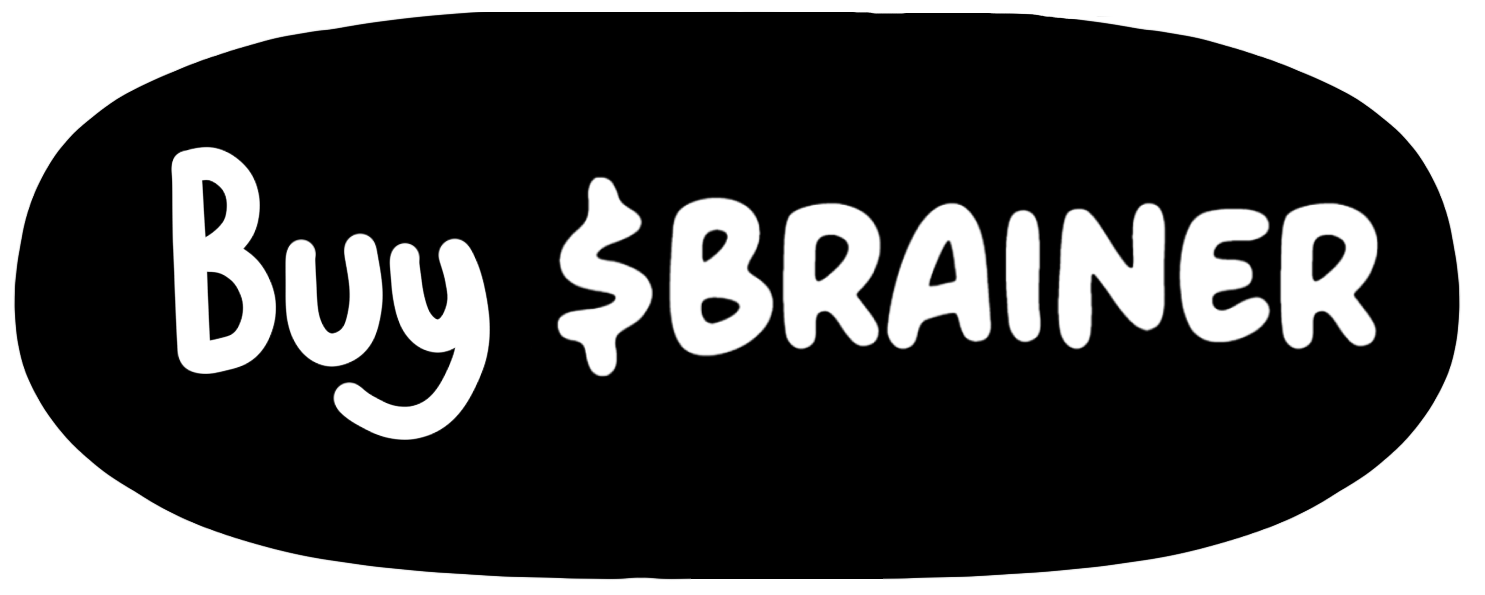
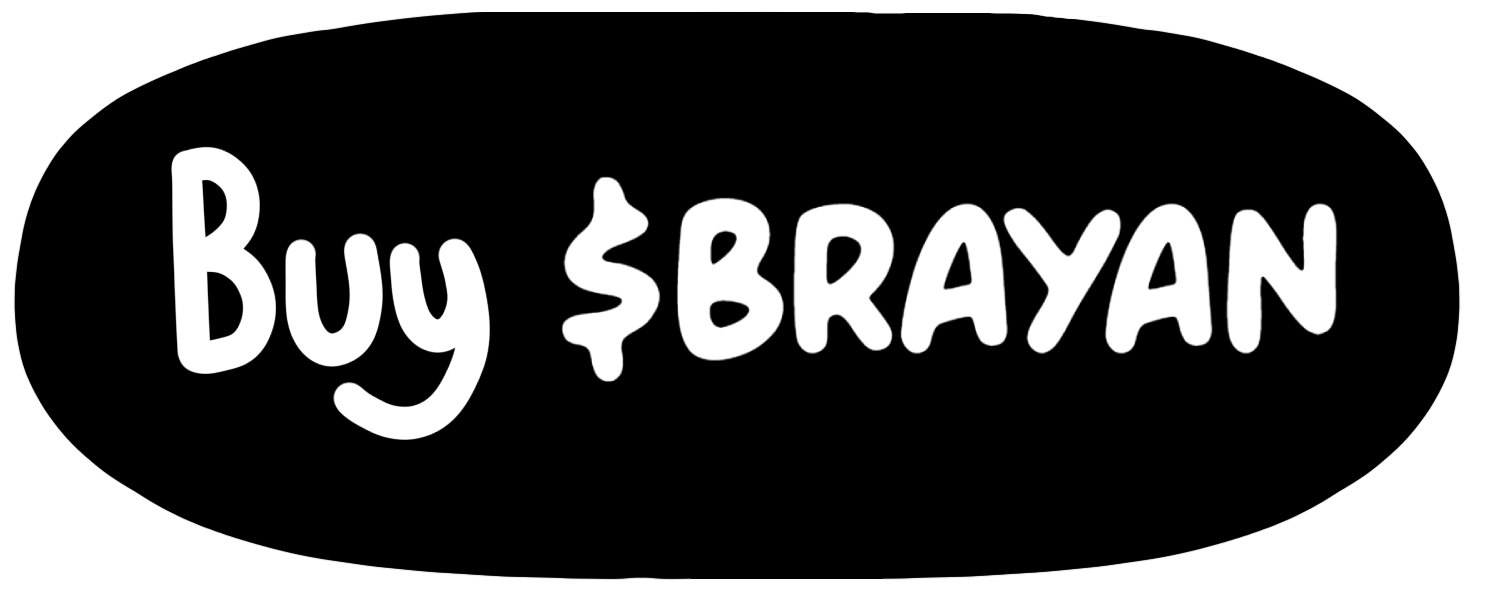
1

Changed region(s): [[0.3717, 0.3025, 0.9293, 0.6353]]

diff --git a/index.html b/index.html
@@ -9,8 +9,8 @@
 <meta http-equiv="Expires" content="0" />
     <link rel="icon" href="./assets/logo1.png" type="image/png">
     <link rel="apple-touch-icon" href="./assets/logo1.png">
-    <title>BRAINER</title>
-    <meta name="description" content="BRAINER is a cheeky, sarcastic genius representing your inner thoughts on the Solana network." />
+    <title>BRAYAN</title>
+    <meta name="description" content="BRAYAN is a cheeky, sarcastic genius representing your inner thoughts on the Solana network." />
   
     <link rel="preconnect" href="https://fonts.googleapis.com">
     <link rel="preconnect" href="https://fonts.gstatic.com" crossorigin>
@@ -25,48 +25,48 @@
       <div class="ticker-wrapper">
         <div class="ticker">
             <div class="ticker-move">
-                <span class="text">rhb2...<span style="color:#ff7bd3; font-weight: bold; text-transform: uppercase;">pump</span></span>
-                <span class="text">rhb2...<span style="color:#ff7bd3; font-weight: bold; text-transform: uppercase;">pump</span></span>
-                <span class="text">rhb2...<span style="color:#ff7bd3; font-weight: bold; text-transform: uppercase;">pump</span></span>
-                <span class="text">rhb2...<span style="color:#ff7bd3; font-weight: bold; text-transform: uppercase;">pump</span></span>
-                <span class="text">rhb2...<span style="color:#ff7bd3; font-weight: bold; text-transform: uppercase;">pump</span></span>
-                <span class="text">rhb2...<span style="color:#ff7bd3; font-weight: bold; text-transform: uppercase;">pump</span></span>
-                <span class="text">rhb2...<span style="color:#ff7bd3; font-weight: bold; text-transform: uppercase;">pump</span></span>
-                <span class="text">rhb2...<span style="color:#ff7bd3; font-weight: bold; text-transform: uppercase;">pump</span></span>
-                <span class="text">rhb2...<span style="color:#ff7bd3; font-weight: bold; text-transform: uppercase;">pump</span></span>
-                <span class="text">rhb2...<span style="color:#ff7bd3; font-weight: bold; text-transform: uppercase;">pump</span></span>
-                <span class="text">rhb2...<span style="color:#ff7bd3; font-weight: bold; text-transform: uppercase;">pump</span></span>
-                <span class="text">rhb2...<span style="color:#ff7bd3; font-weight: bold; text-transform: uppercase;">pump</span></span>
-                <span class="text">rhb2...<span style="color:#ff7bd3; font-weight: bold; text-transform: uppercase;">pump</span></span>
-                <span class="text">rhb2...<span style="color:#ff7bd3; font-weight: bold; text-transform: uppercase;">pump</span></span>
-                <span class="text">rhb2...<span style="color:#ff7bd3; font-weight: bold; text-transform: uppercase;">pump</span></span>
-                <span class="text">rhb2...<span style="color:#ff7bd3; font-weight: bold; text-transform: uppercase;">pump</span></span>
-                <span class="text">rhb2...<span style="color:#ff7bd3; font-weight: bold; text-transform: uppercase;">pump</span></span>
-                <span class="text">rhb2...<span style="color:#ff7bd3; font-weight: bold; text-transform: uppercase;">pump</span></span>
-                <span class="text">rhb2...<span style="color:#ff7bd3; font-weight: bold; text-transform: uppercase;">pump</span></span>
-                <span class="text">rhb2...<span style="color:#ff7bd3; font-weight: bold; text-transform: uppercase;">pump</span></span>
+                <span class="text">zPdV...<span style="color:#ff7bd3; font-weight: bold; text-transform: uppercase;">pump</span></span>
+                <span class="text">zPdV...<span style="color:#ff7bd3; font-weight: bold; text-transform: uppercase;">pump</span></span>
+                <span class="text">zPdV...<span style="color:#ff7bd3; font-weight: bold; text-transform: uppercase;">pump</span></span>
+                <span class="text">zPdV...<span style="color:#ff7bd3; font-weight: bold; text-transform: uppercase;">pump</span></span>
+                <span class="text">zPdV...<span style="color:#ff7bd3; font-weight: bold; text-transform: uppercase;">pump</span></span>
+                <span class="text">zPdV...<span style="color:#ff7bd3; font-weight: bold; text-transform: uppercase;">pump</span></span>
+                <span class="text">zPdV...<span style="color:#ff7bd3; font-weight: bold; text-transform: uppercase;">pump</span></span>
+                <span class="text">zPdV...<span style="color:#ff7bd3; font-weight: bold; text-transform: uppercase;">pump</span></span>
+                <span class="text">zPdV...<span style="color:#ff7bd3; font-weight: bold; text-transform: uppercase;">pump</span></span>
+                <span class="text">zPdV...<span style="color:#ff7bd3; font-weight: bold; text-transform: uppercase;">pump</span></span>
+                <span class="text">zPdV...<span style="color:#ff7bd3; font-weight: bold; text-transform: uppercase;">pump</span></span>
+                <span class="text">zPdV...<span style="color:#ff7bd3; font-weight: bold; text-transform: uppercase;">pump</span></span>
+                <span class="text">zPdV...<span style="color:#ff7bd3; font-weight: bold; text-transform: uppercase;">pump</span></span>
+                <span class="text">zPdV...<span style="color:#ff7bd3; font-weight: bold; text-transform: uppercase;">pump</span></span>
+                <span class="text">zPdV...<span style="color:#ff7bd3; font-weight: bold; text-transform: uppercase;">pump</span></span>
+                <span class="text">zPdV...<span style="color:#ff7bd3; font-weight: bold; text-transform: uppercase;">pump</span></span>
+                <span class="text">zPdV...<span style="color:#ff7bd3; font-weight: bold; text-transform: uppercase;">pump</span></span>
+                <span class="text">zPdV...<span style="color:#ff7bd3; font-weight: bold; text-transform: uppercase;">pump</span></span>
+                <span class="text">zPdV...<span style="color:#ff7bd3; font-weight: bold; text-transform: uppercase;">pump</span></span>
+                <span class="text">zPdV...<span style="color:#ff7bd3; font-weight: bold; text-transform: uppercase;">pump</span></span>
             </div>
             <DIV class="ticker-move">
-                <span class="text">rhb2...<span style="color:#ff7bd3; font-weight: bold; text-transform: uppercase;">pump</span></span>
-                <span class="text">rhb2...<span style="color:#ff7bd3; font-weight: bold; text-transform: uppercase;">pump</span></span>
-                <span class="text">rhb2...<span style="color:#ff7bd3; font-weight: bold; text-transform: uppercase;">pump</span></span>
-                <span class="text">rhb2...<span style="color:#ff7bd3; font-weight: bold; text-transform: uppercase;">pump</span></span>
-                <span class="text">rhb2...<span style="color:#ff7bd3; font-weight: bold; text-transform: uppercase;">pump</span></span>
-                <span class="text">rhb2...<span style="color:#ff7bd3; font-weight: bold; text-transform: uppercase;">pump</span></span>
-                <span class="text">rhb2...<span style="color:#ff7bd3; font-weight: bold; text-transform: uppercase;">pump</span></span>
-                <span class="text">rhb2...<span style="color:#ff7bd3; font-weight: bold; text-transform: uppercase;">pump</span></span>
-                <span class="text">rhb2...<span style="color:#ff7bd3; font-weight: bold; text-transform: uppercase;">pump</span></span>
-                <span class="text">rhb2...<span style="color:#ff7bd3; font-weight: bold; text-transform: uppercase;">pump</span></span>
-                <span class="text">rhb2...<span style="color:#ff7bd3; font-weight: bold; text-transform: uppercase;">pump</span></span>
-                <span class="text">rhb2...<span style="color:#ff7bd3; font-weight: bold; text-transform: uppercase;">pump</span></span>
-                <span class="text">rhb2...<span style="color:#ff7bd3; font-weight: bold; text-transform: uppercase;">pump</span></span>
-                <span class="text">rhb2...<span style="color:#ff7bd3; font-weight: bold; text-transform: uppercase;">pump</span></span>
-                <span class="text">rhb2...<span style="color:#ff7bd3; font-weight: bold; text-transform: uppercase;">pump</span></span>
-                <span class="text">rhb2...<span style="color:#ff7bd3; font-weight: bold; text-transform: uppercase;">pump</span></span>
-                <span class="text">rhb2...<span style="color:#ff7bd3; font-weight: bold; text-transform: uppercase;">pump</span></span>
-                <span class="text">rhb2...<span style="color:#ff7bd3; font-weight: bold; text-transform: uppercase;">pump</span></span>
-                <span class="text">rhb2...<span style="color:#ff7bd3; font-weight: bold; text-transform: uppercase;">pump</span></span>
-                <span class="text">rhb2...<span style="color:#ff7bd3; font-weight: bold; text-transform: uppercase;">pump</span></span>
+                <span class="text">zPdV...<span style="color:#ff7bd3; font-weight: bold; text-transform: uppercase;">pump</span></span>
+                <span class="text">zPdV...<span style="color:#ff7bd3; font-weight: bold; text-transform: uppercase;">pump</span></span>
+                <span class="text">zPdV...<span style="color:#ff7bd3; font-weight: bold; text-transform: uppercase;">pump</span></span>
+                <span class="text">zPdV...<span style="color:#ff7bd3; font-weight: bold; text-transform: uppercase;">pump</span></span>
+                <span class="text">zPdV...<span style="color:#ff7bd3; font-weight: bold; text-transform: uppercase;">pump</span></span>
+                <span class="text">zPdV...<span style="color:#ff7bd3; font-weight: bold; text-transform: uppercase;">pump</span></span>
+                <span class="text">zPdV...<span style="color:#ff7bd3; font-weight: bold; text-transform: uppercase;">pump</span></span>
+                <span class="text">zPdV...<span style="color:#ff7bd3; font-weight: bold; text-transform: uppercase;">pump</span></span>
+                <span class="text">zPdV...<span style="color:#ff7bd3; font-weight: bold; text-transform: uppercase;">pump</span></span>
+                <span class="text">zPdV...<span style="color:#ff7bd3; font-weight: bold; text-transform: uppercase;">pump</span></span>
+                <span class="text">zPdV...<span style="color:#ff7bd3; font-weight: bold; text-transform: uppercase;">pump</span></span>
+                <span class="text">zPdV...<span style="color:#ff7bd3; font-weight: bold; text-transform: uppercase;">pump</span></span>
+                <span class="text">zPdV...<span style="color:#ff7bd3; font-weight: bold; text-transform: uppercase;">pump</span></span>
+                <span class="text">zPdV...<span style="color:#ff7bd3; font-weight: bold; text-transform: uppercase;">pump</span></span>
+                <span class="text">zPdV...<span style="color:#ff7bd3; font-weight: bold; text-transform: uppercase;">pump</span></span>
+                <span class="text">zPdV...<span style="color:#ff7bd3; font-weight: bold; text-transform: uppercase;">pump</span></span>
+                <span class="text">zPdV...<span style="color:#ff7bd3; font-weight: bold; text-transform: uppercase;">pump</span></span>
+                <span class="text">zPdV...<span style="color:#ff7bd3; font-weight: bold; text-transform: uppercase;">pump</span></span>
+                <span class="text">zPdV...<span style="color:#ff7bd3; font-weight: bold; text-transform: uppercase;">pump</span></span>
+                <span class="text">zPdV...<span style="color:#ff7bd3; font-weight: bold; text-transform: uppercase;">pump</span></span>
             </div>
         </div>
       </div>
@@ -91,22 +91,22 @@
       <div class="social-links-and-ca-wrapper">
         <div class="social-links-wrapper">
 
-          <a class="social-link"  href="https://x.com/brainersol" target="_blank">
+          <a class="social-link"  href="https://x.com/brayanthebrain" target="_blank">
             <img class="social-img" src="./assets/social/x.svg"/>
           </a>
 
-          <a class="social-link"  href="https://t.me/brainersol" target="_blank">
+          <a class="social-link"  href="https://t.me/brayanthebrain" target="_blank">
             <img class="social-img" src="./assets/social/telegram.svg"/>
           </a>
           <a class="social-link"  href="#" target="_blank">
             <img class="social-img" src="./assets/DEXTools Isotype_black (alternative color).png"/>
           </a>
-            <a class="social-link"  href="https://pump.fun/rhb2fFSYn6GhTkdpN1gKdDrb1PetkpDHFZSH5Vzpump" target="_blank">
+            <a class="social-link"  href="https://pump.fun/zPdV2mjg9ZVgdfjDAXrhKuy2yxHHZNUAzSghSaupump" target="_blank">
             <img style="filter: brightness(0%);" class="social-img" src="./assets/pump.png"/>
           </a>
         </div>
         <div class="ca">
-          rhb2fFSYn6GhTkdpN1gKdDrb1PetkpDHFZSH5Vz<span style="color:#ff7bd3; font-weight: bold; text-transform: uppercase;">pump</span>
+          zPdV2mjg9ZVgdfjDAXrhKuy2yxHHZNUAzSghSau<span style="color:#ff7bd3; font-weight: bold; text-transform: uppercase;">pump</span>
         </div>
       </div>
 
@@ -117,8 +117,8 @@
           <img class="brain-text-logo shaker" alt="brain-text-logo" src="./assets/brain_header.png" />
         </div>
 
-        <span class="brain-text fade-in-element">BRAINER is a cheeky, sarcastic genius representing your inner thoughts on the Solana network.</span>
-        <a href="https://pump.fun/rhb2fFSYn6GhTkdpN1gKdDrb1PetkpDHFZSH5Vzpump" target="_blank" class="buy-brain-button"><img src="./assets/buy_brain_button.png" /></a>
+        <span class="brain-text fade-in-element">BRAYAN is a cheeky, sarcastic genius representing your inner thoughts on the Solana network.</span>
+        <a href="https://pump.fun/zPdV2mjg9ZVgdfjDAXrhKuy2yxHHZNUAzSghSaupump" target="_blank" class="buy-brain-button"><img src="./assets/buy_brain_button.png" /></a>
       </div>
     </section>
     <section class="why-brain-wrapper">
@@ -126,10 +126,10 @@
         <div class="text-warpper">
           <img class="section-title why-brain-title fade-in-element" src="./assets/why_brain.png" />
           <br>
-            Dis smol BRAINER sez: "BUY NOW!"</br>
-            Dis big BRAINER sez: "MOON SOON!</br>
+            Dis smol BRAYAN sez: "BUY NOW!"</br>
+            Dis big BRAYAN sez: "MOON SOON!</br>
           </br>
-            Why $BRAINER Coin?</br>
+            Why $BRAYAN Coin?</br>
           </br>
             MOON! We go zoom zoom 🚀</br>
             DIAMOND HANDS! No paper hands, no weak sauce 💎✋</br>
@@ -150,48 +150,48 @@
       <div class="ticker-wrapper dark">
         <div class="ticker">
             <div class="ticker-move">
-                <span class="text">$BRAINER</span>
-                <span class="text">$BRAINER</span>
-                <span class="text">$BRAINER</span>
-                <span class="text">$BRAINER</span>
-                <span class="text">$BRAINER</span>
-                <span class="text">$BRAINER</span>
-                <span class="text">$BRAINER</span>
-                <span class="text">$BRAINER</span>
-                <span class="text">$BRAINER</span>
-                <span class="text">$BRAINER</span>
-                <span class="text">$BRAINER</span>
-                <span class="text">$BRAINER</span>
-                <span class="text">$BRAINER</span>
-                <span class="text">$BRAINER</span>
-                <span class="text">$BRAINER</span>
-                <span class="text">$BRAINER</span>
-                <span class="text">$BRAINER</span>
-                <span class="text">$BRAINER</span>
-                <span class="text">$BRAINER</span>
-                <span class="text">$BRAINER</span>
+                <span class="text">$BRAYAN</span>
+                <span class="text">$BRAYAN</span>
+                <span class="text">$BRAYAN</span>
+                <span class="text">$BRAYAN</span>
+                <span class="text">$BRAYAN</span>
+                <span class="text">$BRAYAN</span>
+                <span class="text">$BRAYAN</span>
+                <span class="text">$BRAYAN</span>
+                <span class="text">$BRAYAN</span>
+                <span class="text">$BRAYAN</span>
+                <span class="text">$BRAYAN</span>
+                <span class="text">$BRAYAN</span>
+                <span class="text">$BRAYAN</span>
+                <span class="text">$BRAYAN</span>
+                <span class="text">$BRAYAN</span>
+                <span class="text">$BRAYAN</span>
+                <span class="text">$BRAYAN</span>
+                <span class="text">$BRAYAN</span>
+                <span class="text">$BRAYAN</span>
+                <span class="text">$BRAYAN</span>
             </div>
             <div class="ticker-move">
-                <span class="text">$BRAINER</span>
-                <span class="text">$BRAINER</span>
-                <span class="text">$BRAINER</span>
-                <span class="text">$BRAINER</span>
-                <span class="text">$BRAINER</span>
-                <span class="text">$BRAINER</span>
-                <span class="text">$BRAINER</span>
-                <span class="text">$BRAINER</span>
-                <span class="text">$BRAINER</span>
-                <span class="text">$BRAINER</span>
-                <span class="text">$BRAINER</span>
-                <span class="text">$BRAINER</span>
-                <span class="text">$BRAINER</span>
-                <span class="text">$BRAINER</span>
-                <span class="text">$BRAINER</span>
-                <span class="text">$BRAINER</span>
-                <span class="text">$BRAINER</span>
-                <span class="text">$BRAINER</span>
-                <span class="text">$BRAINER</span>
-                <span class="text">$BRAINER</span>
+                <span class="text">$BRAYAN</span>
+                <span class="text">$BRAYAN</span>
+                <span class="text">$BRAYAN</span>
+                <span class="text">$BRAYAN</span>
+                <span class="text">$BRAYAN</span>
+                <span class="text">$BRAYAN</span>
+                <span class="text">$BRAYAN</span>
+                <span class="text">$BRAYAN</span>
+                <span class="text">$BRAYAN</span>
+                <span class="text">$BRAYAN</span>
+                <span class="text">$BRAYAN</span>
+                <span class="text">$BRAYAN</span>
+                <span class="text">$BRAYAN</span>
+                <span class="text">$BRAYAN</span>
+                <span class="text">$BRAYAN</span>
+                <span class="text">$BRAYAN</span>
+                <span class="text">$BRAYAN</span>
+                <span class="text">$BRAYAN</span>
+                <span class="text">$BRAYAN</span>
+                <span class="text">$BRAYAN</span>
             </div>
         </div>
       </div>
@@ -232,13 +232,13 @@
 
         <div class="step">
           <div class="step-title-and-text">
-            <h3>3. SWAP $SOL FOR $BRAINER</h3>
-            <p>Click on the button below, connect your wallet, and press SWAP! BOOM! <strong>You are a $BRAINER holder!</strong></p>
+            <h3>3. SWAP $SOL FOR $BRAYAN</h3>
+            <p>Click on the button below, connect your wallet, and press SWAP! BOOM! <strong>You are a $BRAYAN holder!</strong></p>
             <p></p>
-              <a href="https://pump.fun/rhb2fFSYn6GhTkdpN1gKdDrb1PetkpDHFZSH5Vzpump" target="_blank" class="buy-brain-instep">Buy $BRAINER</a>
+              <a href="https://pump.fun/zPdV2mjg9ZVgdfjDAXrhKuy2yxHHZNUAzSghSaupump" target="_blank" class="buy-brain-instep">Buy $BRAYAN</a>
           </div>
 
-          <img src="./assets/c.png" alt="Swap $SOL for $BRAINER">
+          <img src="./assets/c.png" alt="Swap $SOL for $BRAYAN">
         </div>
     </div>
     </section>
@@ -248,11 +248,11 @@
 
       <div class="social-links-wrapper-bottom">
 
-        <a class="social-link" href="https://x.com/brainersol" target="_blank">
+        <a class="social-link" href="https://x.com/brayanthebrain" target="_blank">
           <img class="social-img" src="./assets/social/x-w.svg"/>
         </a>
 
-        <a class="social-link" href="https://t.me/brainersol" target="_blank">
+        <a class="social-link" href="https://t.me/brayanthebrain" target="_blank">
           <img class="social-img" src="./assets/social/telegram-w.svg"/>
         </a>
       </div>
@@ -268,7 +268,7 @@
     </section>
     <div class="footer">
       <span class="disclaimer">
-        Legal Disclaimer: $BRAINER is a meme coin with no value or financial return. $BRAINER is purely for entertainment. By purchasing $BRAINER, you acknowledge this disclaimer.
+        Legal Disclaimer: $BRAYAN is a meme coin with no value or financial return. $BRAYAN is purely for entertainment. By purchasing $BRAYAN, you acknowledge this disclaimer.
       </span>
     </div>
     <script type="text/javascript" src="./script.js?v=1.0.1"></script>
